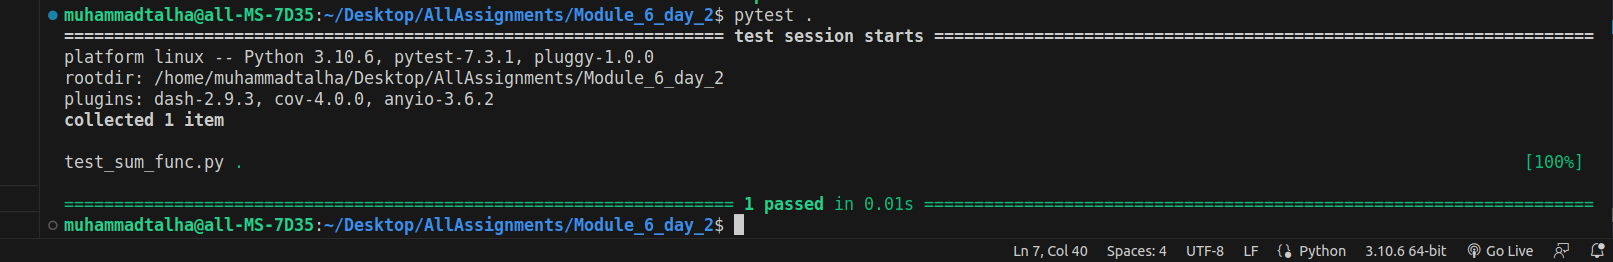
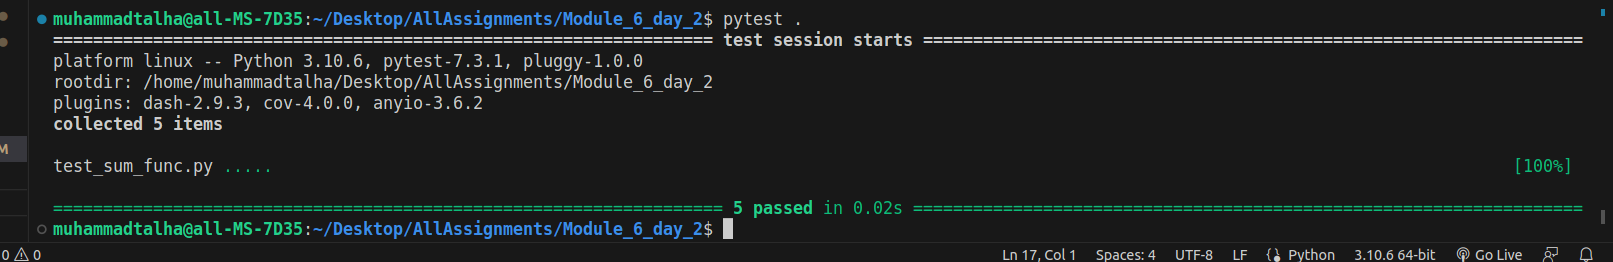
test

diff --git a/Week_6/Module_6_day_2/test_sum_func.py b/Week_6/Module_6_day_2/test_sum_func.py
@@ -1,7 +1,16 @@
 from sum_func import add_positive
 # Tests
-def test_add_positive():
+def test_add_positive_2_and_3():   
     assert add_positive(2, 3) == 5
+
+def test_add_negative_5_and_positive_10():
     assert add_positive(-5, 10) == None
+
+def test_type_check():
+    assert type(add_positive(2,3))==int 
+
+def test_add_positive_10_and_negative_5():
+    assert add_positive(10, -5) == None
+
+def test_add_positive_0_and_0():
     assert add_positive(0, 0) == None
-    assert type(add_positive(2,3))==int
